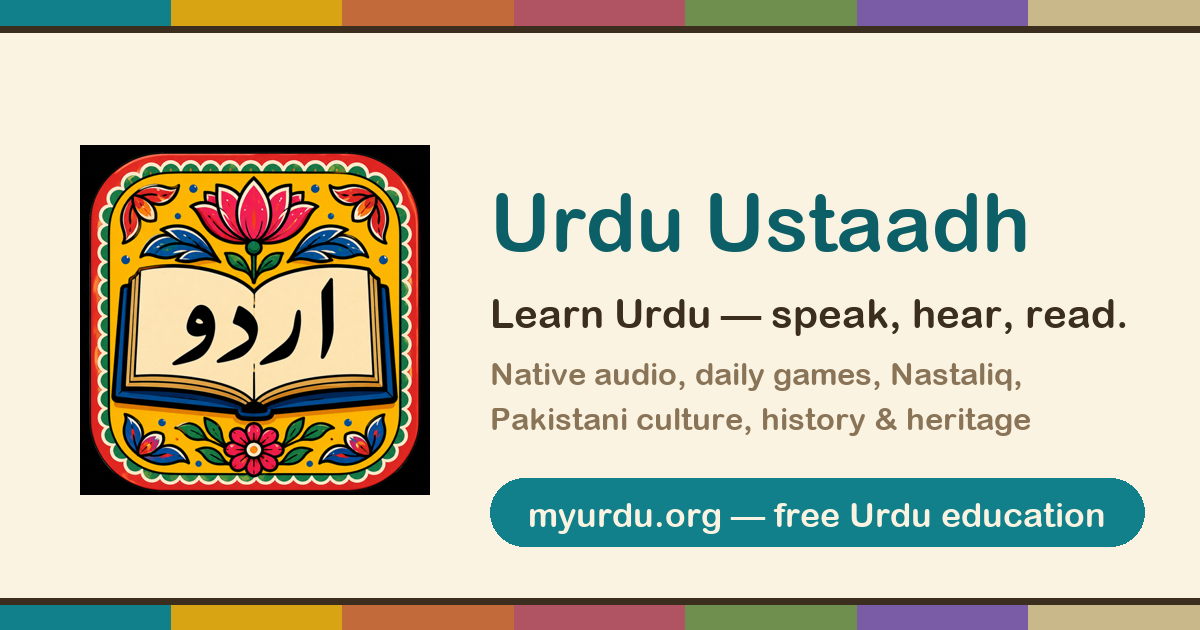
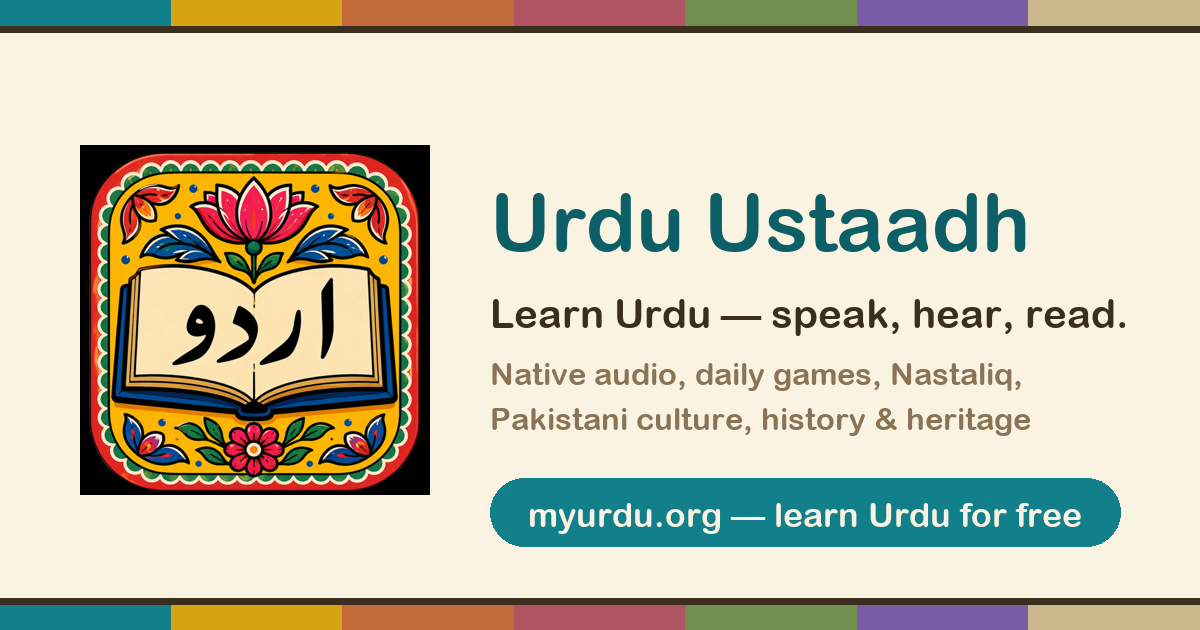
Tagline: learn Urdu for free (assets v202607292257)

Changed region(s): [[0.6475, 0.754, 0.9558, 0.8746]]

diff --git a/index.html b/index.html
@@ -6,11 +6,11 @@
   <meta http-equiv="Content-Security-Policy" content="default-src 'self'; script-src 'self' 'unsafe-inline' https://static.cloudflareinsights.com; style-src 'self' 'unsafe-inline' https://fonts.googleapis.com; font-src https://fonts.gstatic.com; img-src 'self' data:; media-src 'self'; connect-src 'self' https://myurdu-backend-production.up.railway.app https://cloudflareinsights.com; object-src 'none'; base-uri 'self'; form-action 'self'" />
   <meta name="referrer" content="strict-origin-when-cross-origin" />
   <meta name="theme-color" content="#12808b" />
-  <meta name="description" content="Learn Urdu — speak it, hear it, read it. Native audio, daily games, the Nastaliq script, and Pakistani culture. Free Urdu education for everyone." />
+  <meta name="description" content="Learn Urdu — speak it, hear it, read it. Native audio, daily games, the Nastaliq script, and Pakistani culture. Learn Urdu for free." />
   <meta property="og:type" content="website" />
   <meta property="og:url" content="https://myurdu.org/" />
   <meta property="og:title" content="Urdu Ustaadh — Learn Urdu" />
-  <meta property="og:description" content="Speak it, hear it, read it — native audio, daily games, and Pakistani culture. Free Urdu education for everyone." />
+  <meta property="og:description" content="Speak it, hear it, read it — native audio, daily games, and Pakistani culture. Learn Urdu for free." />
   <meta property="og:image" content="https://myurdu.org/social-card.png" />
   <meta name="twitter:card" content="summary_large_image" />
   <link rel="manifest" href="manifest.json" />
@@ -21,16 +21,16 @@
   <link rel="preconnect" href="https://fonts.googleapis.com" />
   <link rel="preconnect" href="https://fonts.gstatic.com" crossorigin />
   <link href="https://fonts.googleapis.com/css2?family=Noto+Nastaliq+Urdu:wght@400;700&family=Baloo+2:wght@500;600;700&display=swap" rel="stylesheet" />
-  <link rel="stylesheet" href="styles.css?v=202607292256" />
+  <link rel="stylesheet" href="styles.css?v=202607292257" />
 </head>
 <body>
   <div id="app"></div>
-  <script src="config.js?v=202607292256"></script>
-  <script src="data.js?v=202607292256"></script>
-  <script src="speech.js?v=202607292256"></script>
-  <script src="diagrams.js?v=202607292256"></script>
-  <script src="pakmap.js?v=202607292256"></script>
-  <script src="sync.js?v=202607292256"></script>
-  <script src="app.js?v=202607292256"></script>
+  <script src="config.js?v=202607292257"></script>
+  <script src="data.js?v=202607292257"></script>
+  <script src="speech.js?v=202607292257"></script>
+  <script src="diagrams.js?v=202607292257"></script>
+  <script src="pakmap.js?v=202607292257"></script>
+  <script src="sync.js?v=202607292257"></script>
+  <script src="app.js?v=202607292257"></script>
 </body>
 </html>

diff --git a/app.js b/app.js
@@ -1019,7 +1019,7 @@ async function showCertificate() {
   ctx.fillStyle = "#9b7508"; ctx.font = "700 42px 'Baloo 2', sans-serif";
   ctx.fillText("★ " + rank.name + " ★", 500, 540);
   ctx.fillStyle = "#8a7458"; ctx.font = "22px 'Baloo 2', sans-serif";
-  ctx.fillText(todayKey() + "  ·  myurdu.org  ·  free Urdu education", 500, 610);
+  ctx.fillText(todayKey() + "  ·  myurdu.org  ·  learn Urdu for free", 500, 610);
   document.getElementById("cert-dl").href = cv.toDataURL("image/png");
 }
 

diff --git a/sw.js b/sw.js
@@ -3,7 +3,7 @@
 // online), cache-first for version-stamped assets and audio clips
 // (immutable per URL). Never touches the API or other origins,
 // except Google Fonts (cache-first).
-const CACHE = "myurdu-v202607292256"; // stamped by tools/deploy.sh
+const CACHE = "myurdu-v202607292257"; // stamped by tools/deploy.sh
 
 self.addEventListener("install", () => self.skipWaiting());
 
